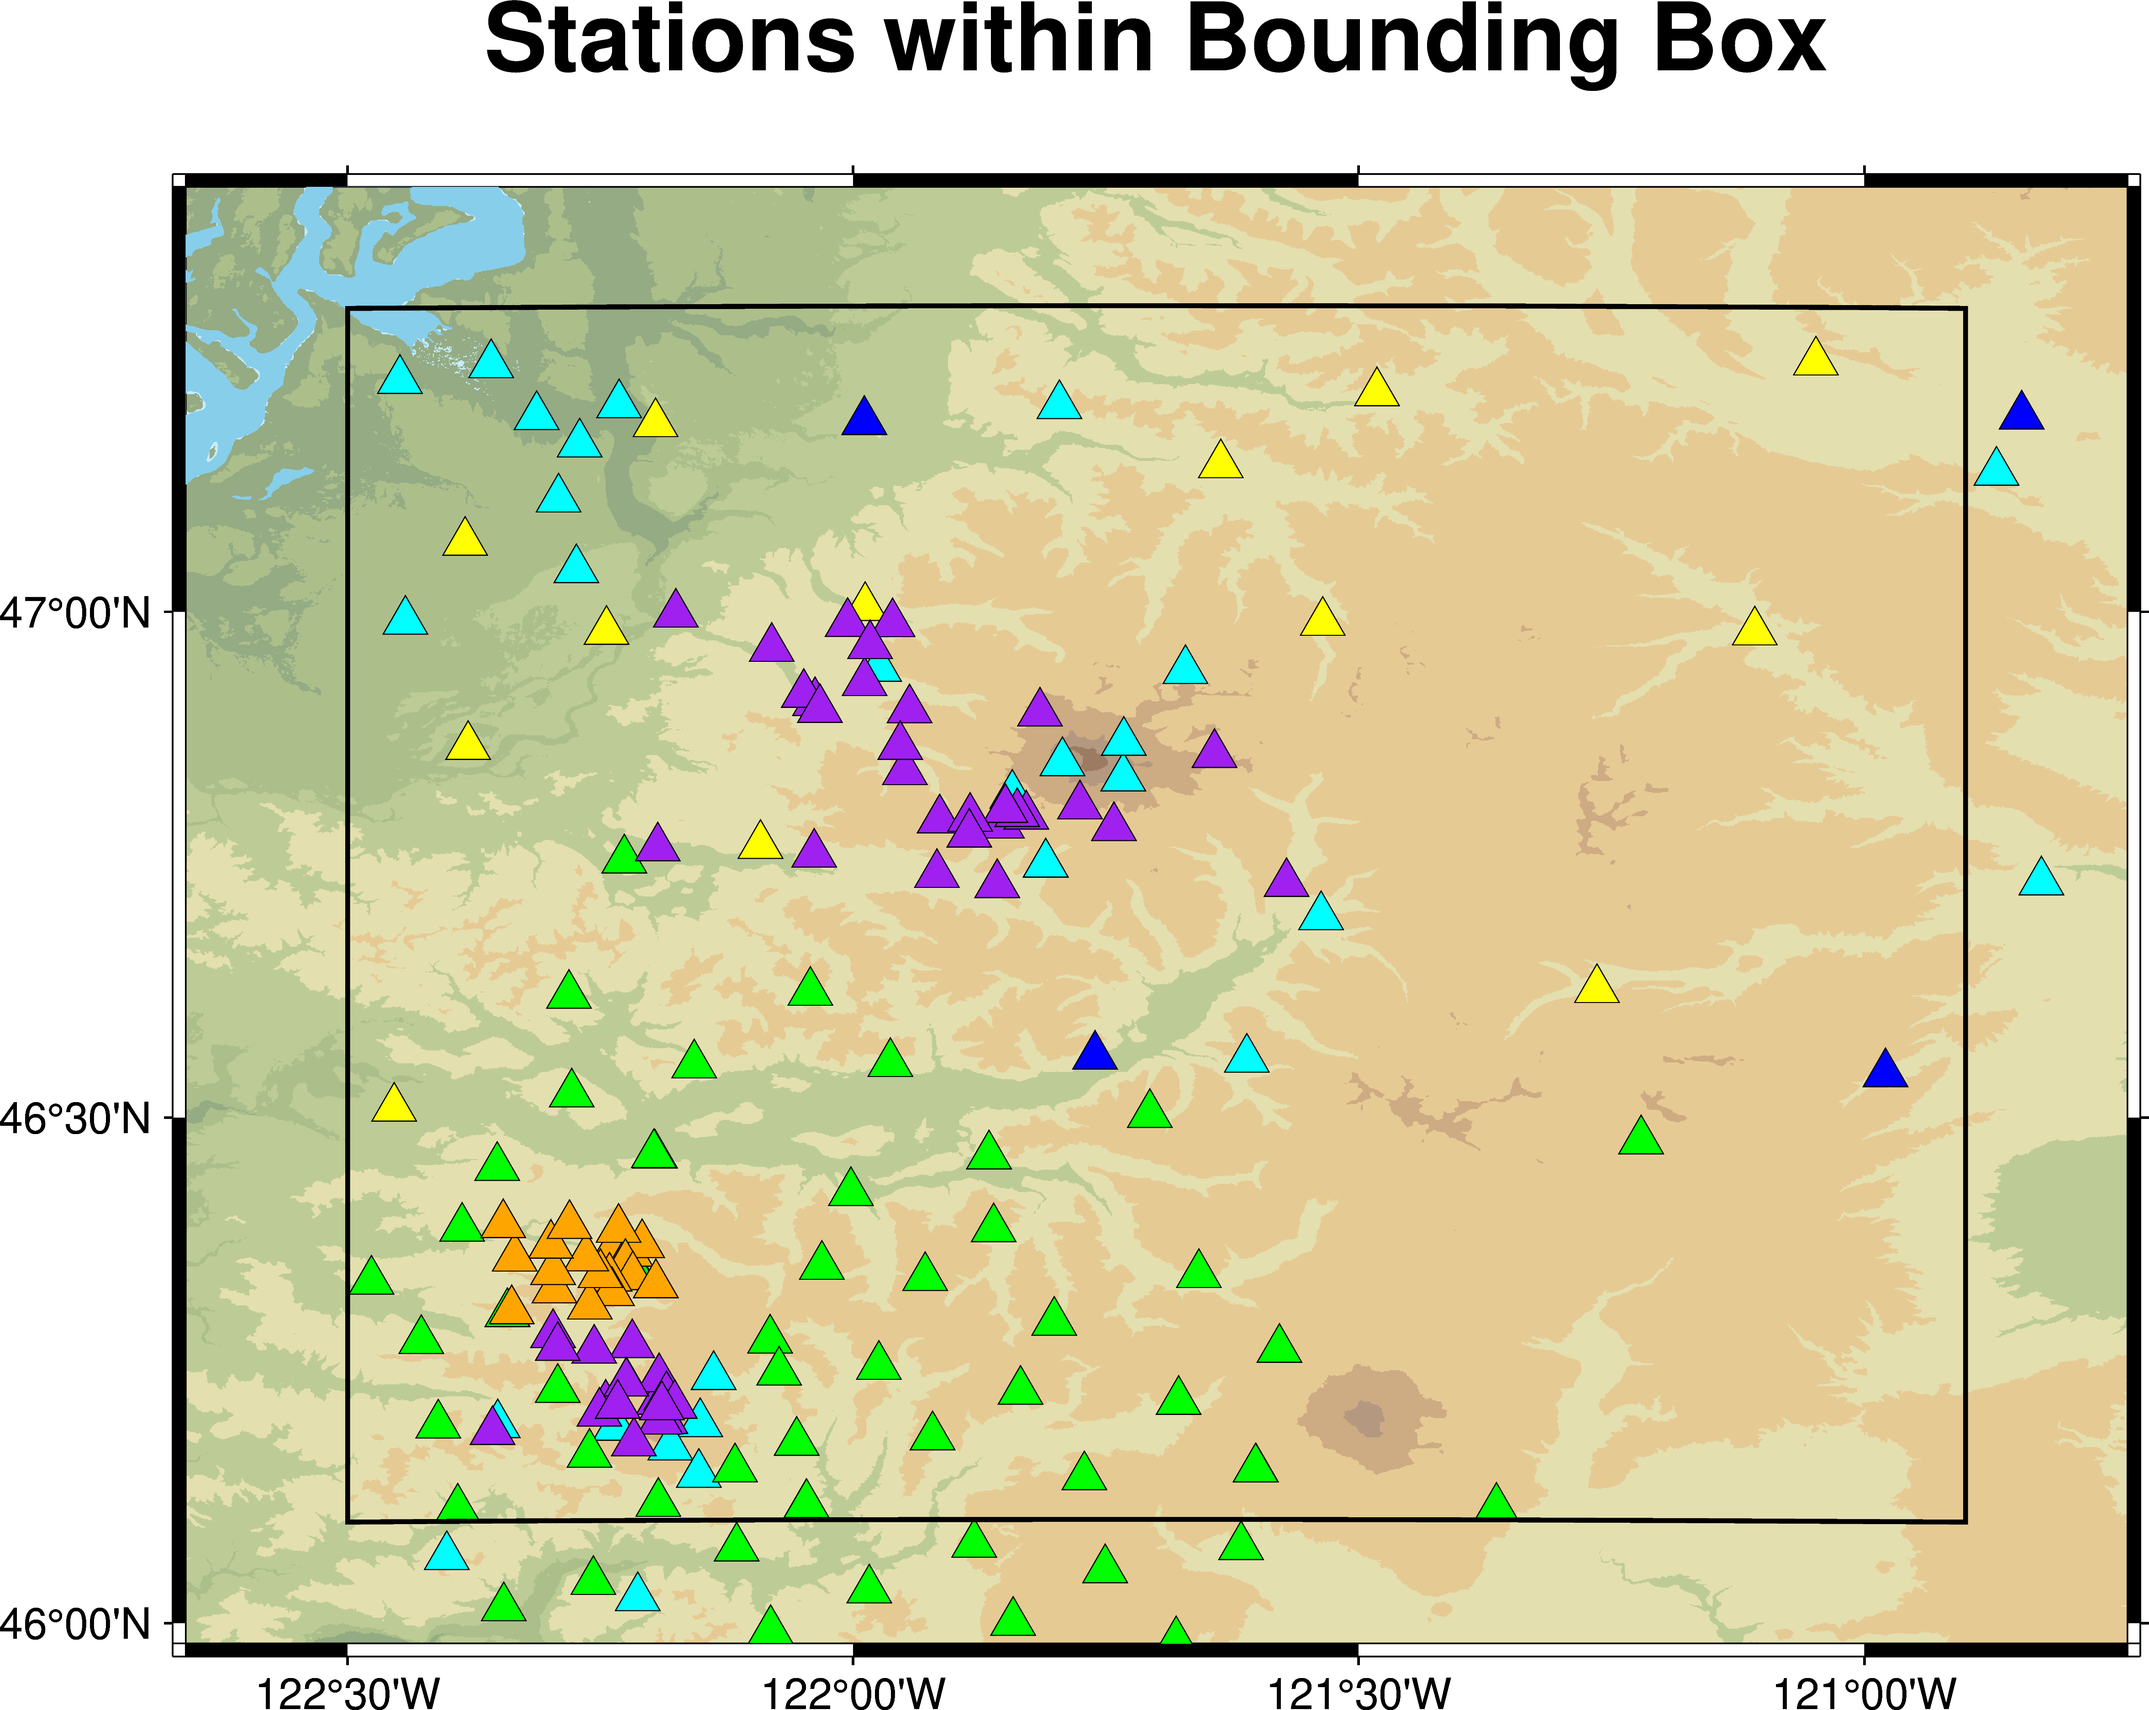
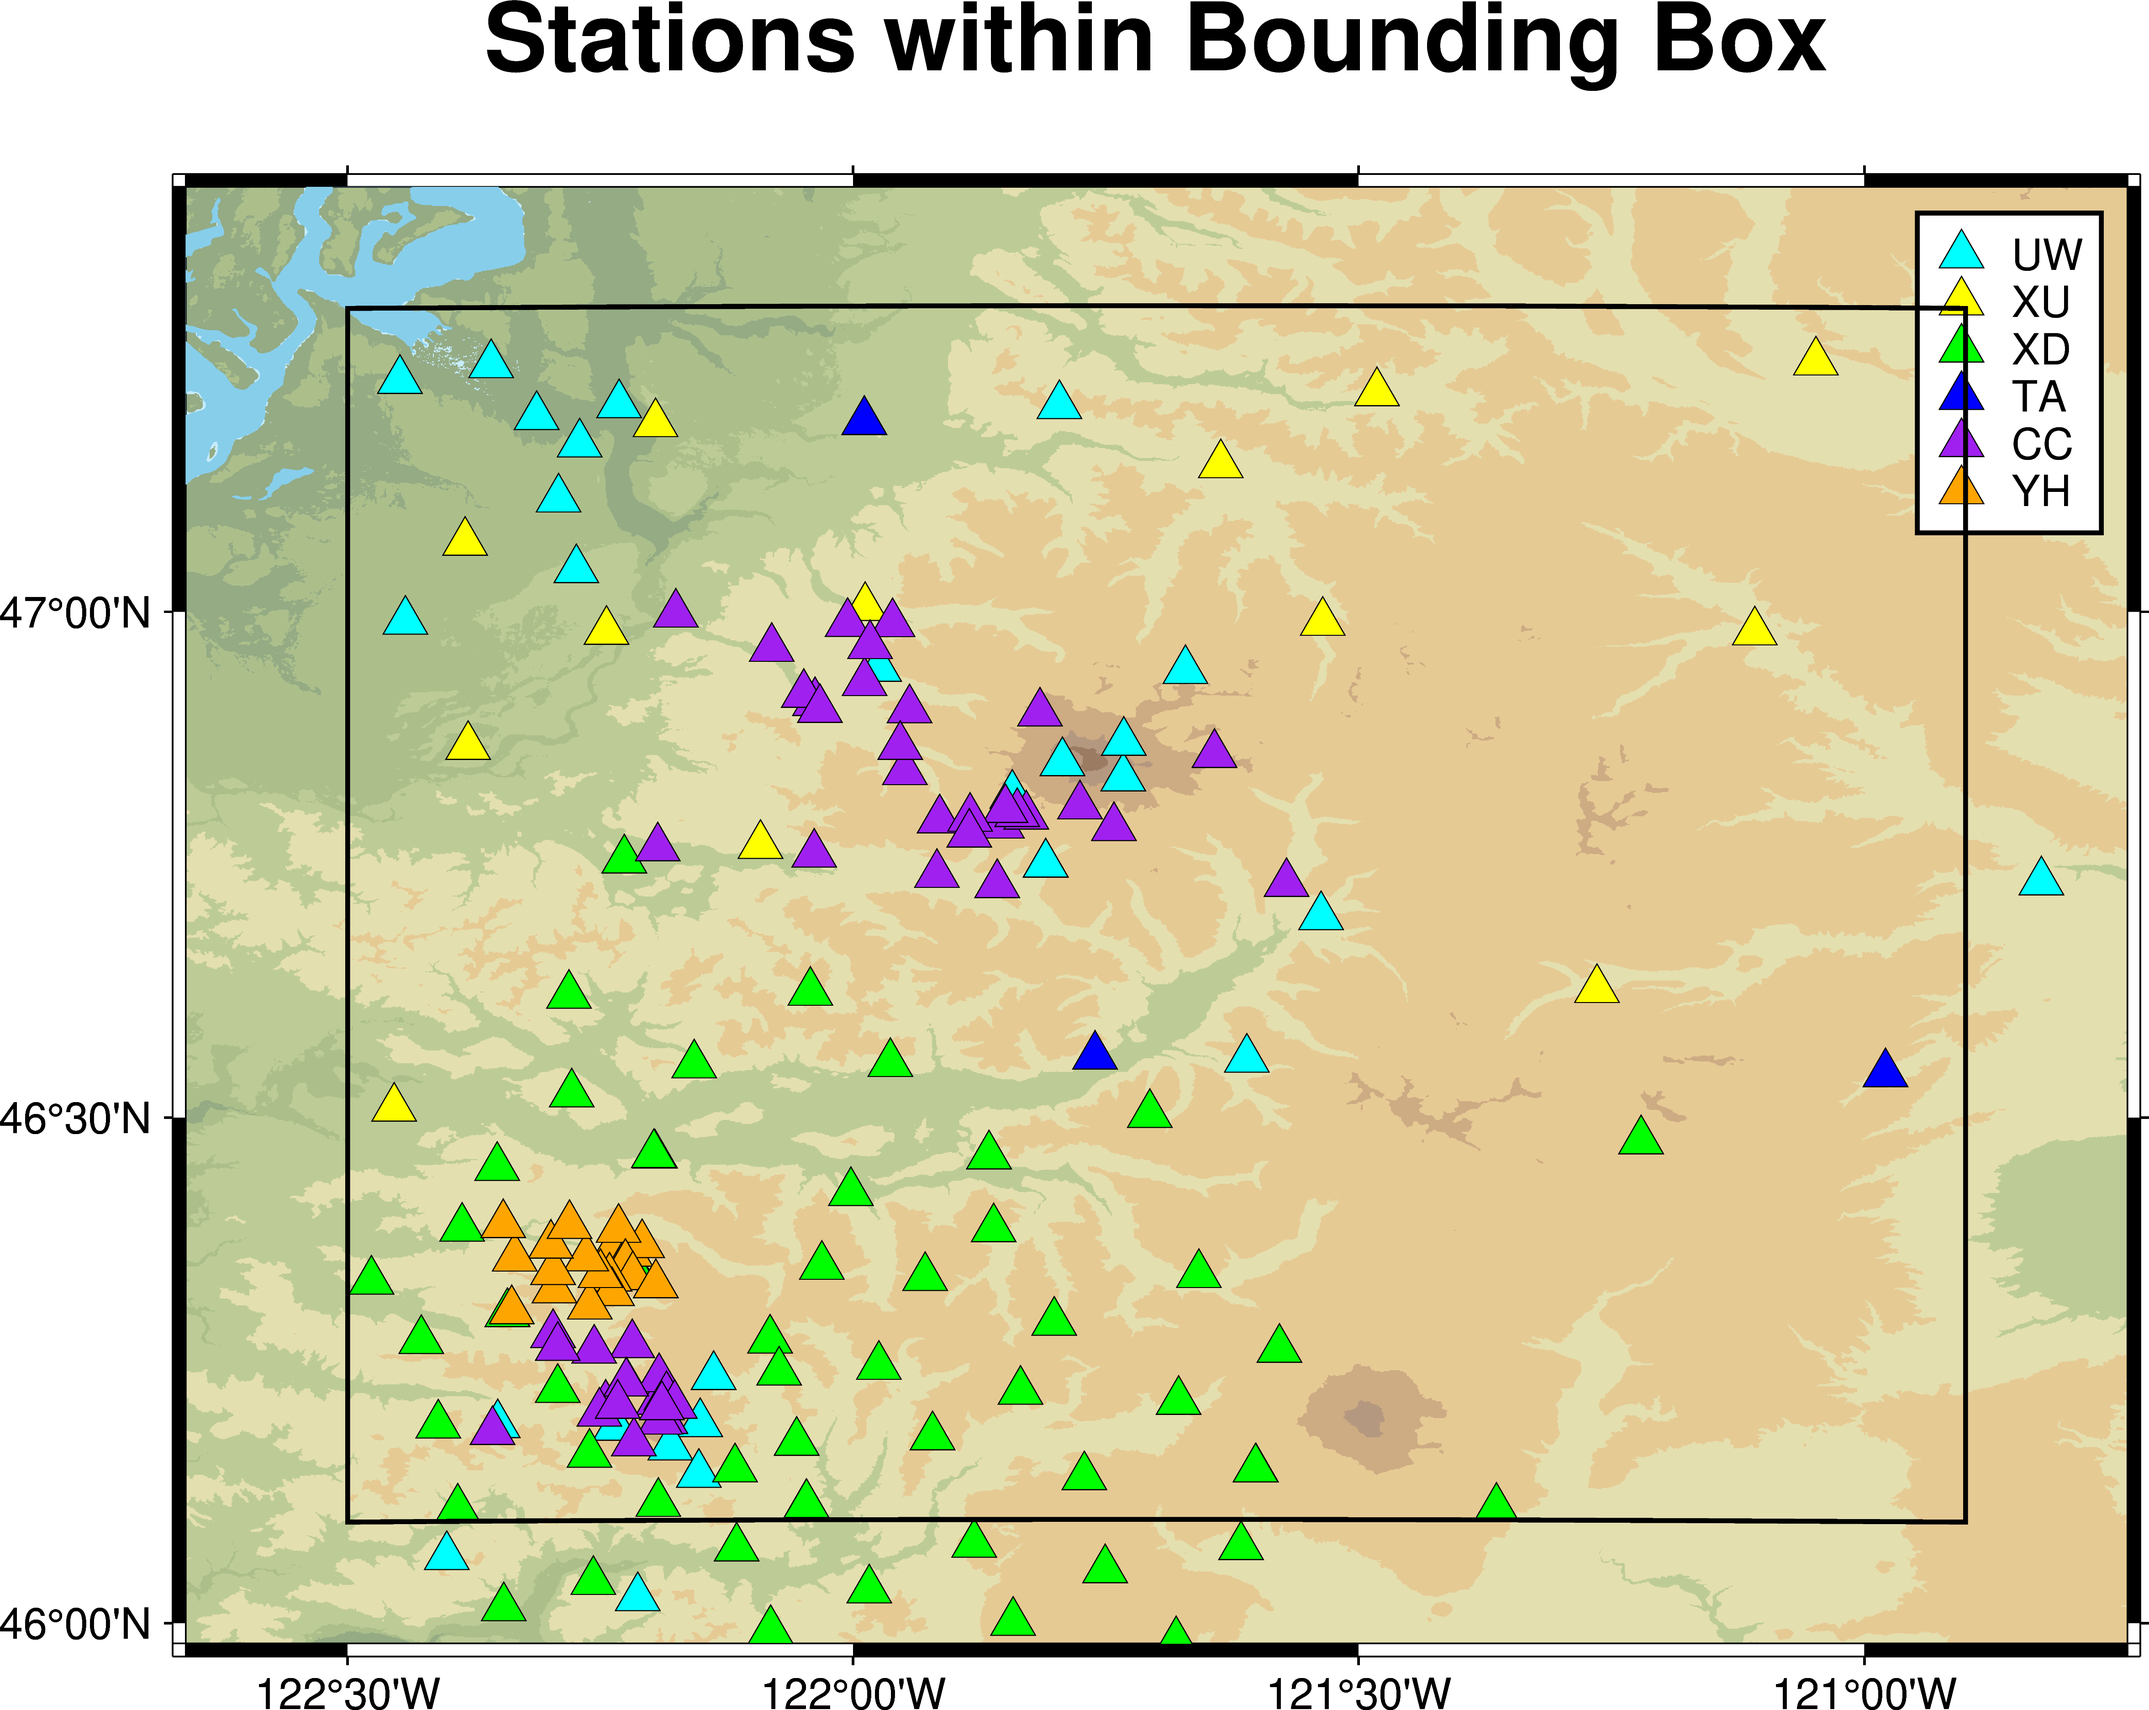
Update plot_major_cities
- Only lists problem cities list in full when there are 5 or less problem cities

Changed region(s): [[0.8746, 0.125, 0.9996, 0.3125]]

diff --git a/scripts/general_mapping.py b/scripts/general_mapping.py
@@ -287,6 +287,11 @@ def plot_major_cities(fig,bounds=None,minpopulation=100000,
     close_threshhold: float, optional
         Distance, as a fraction of the length of the figure diagonal, below
         which two very close cities will only plot the larger of the two.
+    hor_offset_multiplier: float, optional
+        For cities that are near the longitudinal boundaries, their label will
+        be shifted inward. This multiplier chooses how far in they will be shifted,
+        and will need to be adjusted depending on your font size and the length
+        of your longest city name that needs adjusting.
 
     Returns
     -------
@@ -314,8 +319,6 @@ def plot_major_cities(fig,bounds=None,minpopulation=100000,
         city = [row['lat'],row['lng'],row['city_ascii'],row['population']]
         city_list.append(city)
         
-    print(city_list)    
-        
     height,width,diag = get_map_dimensions(fig)
     threshhold_distance = diag * close_threshhold 
     
@@ -336,29 +339,34 @@ def plot_major_cities(fig,bounds=None,minpopulation=100000,
                 problem_pair = [i, index]
                 problem_pair_list.append(problem_pair)
                 
-    print('WARNING: These cities are too close:')
-    for pair in problem_pair_list:
+    if len(problem_pair_list) > 0: 
+        if len(problem_pair_list) <= 5:           
+            print('WARNING: These cities are too close:')
+            for pair in problem_pair_list:
         
-        prob1 = pair[0]
-        prob2 = pair[1]
-        
-        print(f'{city_list[prob1][2]} and {city_list[prob2][2]}')
-    print('The larger of the two cities will be plotted. Decrease close_threshhold to change this behavior')
-
-    to_remove_list = []
-    for pair in problem_pair_list:
-        prob1 = pair[0]
-        prob2 = pair[1]
-    
-        # If you're getting an error here with index out of bound, it's because
-        # your close_threshhold is too high and too many cities are being
-        # removed, which makes this script very confused.
-        if city_list[prob1][3] > city_list[prob2][3]:
-            to_remove_list.append(city_list[prob2])
+                prob1 = pair[0]
+                prob2 = pair[1]
+                
+                print(f'{city_list[prob1][2]} and {city_list[prob2][2]}')
+            print('The larger of the two cities will be plotted. Decrease close_threshhold to change this behavior')
         else:
-            to_remove_list.append(city_list[prob1])
-         
-    city_list = [e for e in city_list if e not in to_remove_list]
+            print('Warning: more than 5 cities are too close')
+            print('The largest of these cities will be plotted. Decrease close_threshhold to change this behavior')
+    
+        to_remove_list = []
+        for pair in problem_pair_list:
+            prob1 = pair[0]
+            prob2 = pair[1]
+        
+            # If you're getting an error here with index out of bound, it's because
+            # your close_threshhold is too high and too many cities are being
+            # removed, which makes this script very confused.
+            if city_list[prob1][3] > city_list[prob2][3]:
+                to_remove_list.append(city_list[prob2])
+            else:
+                to_remove_list.append(city_list[prob1])
+             
+        city_list = [e for e in city_list if e not in to_remove_list]
             
     standard_offset_height = height * offset
     standard_offset_width = width * offset * hor_offset_multiplier

diff --git a/Mapping_Main.py b/Mapping_Main.py
@@ -25,7 +25,7 @@ regional_fig = ms.plot_stations(station_inv,
                                 margin=1)
 
 regional_fig = gm.plot_major_cities(regional_fig,minpopulation=200000,
-                                    close_threshhold=0.003,offset=0.03,
+                                    close_threshhold=0.03,offset=0.03,
                                     dotsize=0.25,hor_offset_multiplier=3.5)
 regional_fig.show()
 

diff --git a/scripts/mapping_stations.py b/scripts/mapping_stations.py
@@ -272,6 +272,8 @@ def plot_stations(inventory,fig=None,projection="Q15c+du",figure_name="figure!",
                  label=network.code,
                  pen="0.2p")
         
+    fig.legend()
+        
     if box_bounds != None:
         if len(bounds) != 4:
             raise ValueError(f'Expected 4 items in box_bounds, got {len(box_bounds)}')
